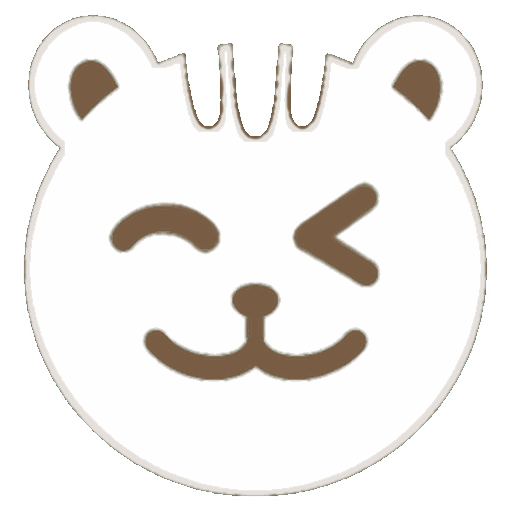
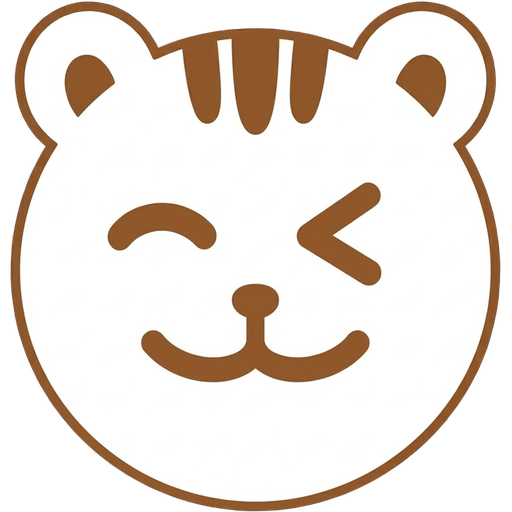
v1.23.0 中心仓鼠换 wink 新画：棋盘格假透明转真透明（泛洪去底+羽化反解），轮廓更满故尺寸 76%→73% 校准（耳尖深度与旧版对齐），竖毛随换图变实心

diff --git a/index.html b/index.html
@@ -273,8 +273,8 @@
      缝隙只出现在「两段都非零」的相邻处，单一档位占满时不留缝（否则整圆会断开）。 */
   /* 层级（自下而上）：.md-ring z-index:1 → .md-ham z-index:3；父级 isolation:isolate
      建立独立层叠上下文，中心图标严格叠在全部扇区之上。
-     贴纸式叠压：图标 76%（盒半宽 38 用户单位）—— 耳尖径向达盒半宽的 1.195 倍（≈45.4），
-     脸侧 0.89 倍（≈33.8）→ 耳朵与脸侧都越过环内径 32 压在扇区上，形成前后分层；
+     贴纸式叠压：图标 73%（盒半宽 36.5 用户单位）—— wink 仓鼠耳尖径向达盒半宽的 1.25 倍（≈45.6），
+     脸侧 0.97 倍（≈35.3）→ 耳朵与脸侧都越过环内径 32 压在扇区上，形成前后分层；
      耳尖 < 环外径 48 且留 ≥2 单位余量，故不会触到或溢出整个环。
      落在环面上的柔和投影（drop-shadow）把图标从环面「抬起来」，是叠压成立的关键。 */
   .mastery-donut {
@@ -302,15 +302,16 @@
   .mastery-donut.is-hot .md-seg { opacity: .3; }
   .mastery-donut.is-hot .md-seg.hot { opacity: 1; stroke-width: 22; }
   /* 中心仓鼠：绝对居中 + 最高层级；不设任何底色 / 底座（无底边），图片自身为透明底。
-     76% 使其外接半径越过环内径 → 贴纸式压在扇区上（见上方几何注释）。
-     五官色分两版资源（v1.22.0）：浅色版深暖棕（浅底上需要更高对比）、深色版中浅暖棕
-     （避免纯黑「显凶」）。两版都把「五官 + 耳朵内侧镂空」烘焙成实色，因此不再依赖
-     「镂空露出底色」——浅色/深色观感一致，也顺手解决了原先浅色版五官不可辨的问题。 */
+     73% 使其外接半径越过环内径 → 贴纸式压在扇区上（见上方几何注释）；wink 仓鼠轮廓
+     比旧图更「满」（耳尖 1.25×盒半宽 vs 旧 1.195×），73% 即达到与旧图 76% 相同的耳尖深度。
+     五官色分两版资源（v1.23.0 起，替换 v1.22.0 的 wink 前旧画）：浅色版深暖棕（浅底上需要
+     更高对比）、深色版中浅暖棕（避免纯黑「显凶」）。头顶三条竖毛为实心笔画（v1.22.1 遗留的
+     「竖毛空心」问题随换图一并解决）。 */
   .md-ham {
     position: absolute;
     left: 50%; top: 50%;
     z-index: 3;                              /* 高于扇区（1）→ 层叠最上层 */
-    width: 76%; height: 76%;                 /* 父级正方形 → 百分比宽高相等，等比不拉伸 */
+    width: 73%; height: 73%;                 /* 父级正方形 → 百分比宽高相等，等比不拉伸；73% = 耳尖校准值 */
     transform: translate(-50%, -50%);        /* 位移量为自身宽高的一半 → 与环心严格同心 */
     object-fit: contain;                     /* 兜底：极端比例也不变形 */
     pointer-events: none;                    /* 不拦截扇区交互（层级仍最高） */
@@ -937,7 +938,7 @@
 
 <footer>
   <div>纯本地运行 · 数据只保存在你的浏览器中 · 记得定期「导出进度」</div>
-  <div>v1.22.1</div>
+  <div>v1.23.0</div>
 </footer>
 
 <!-- 数据来源：knowledge-studio 母数据产物（由 tools/build_web_data.py 生成）；旧 knowledge.js 保留不引用 -->
